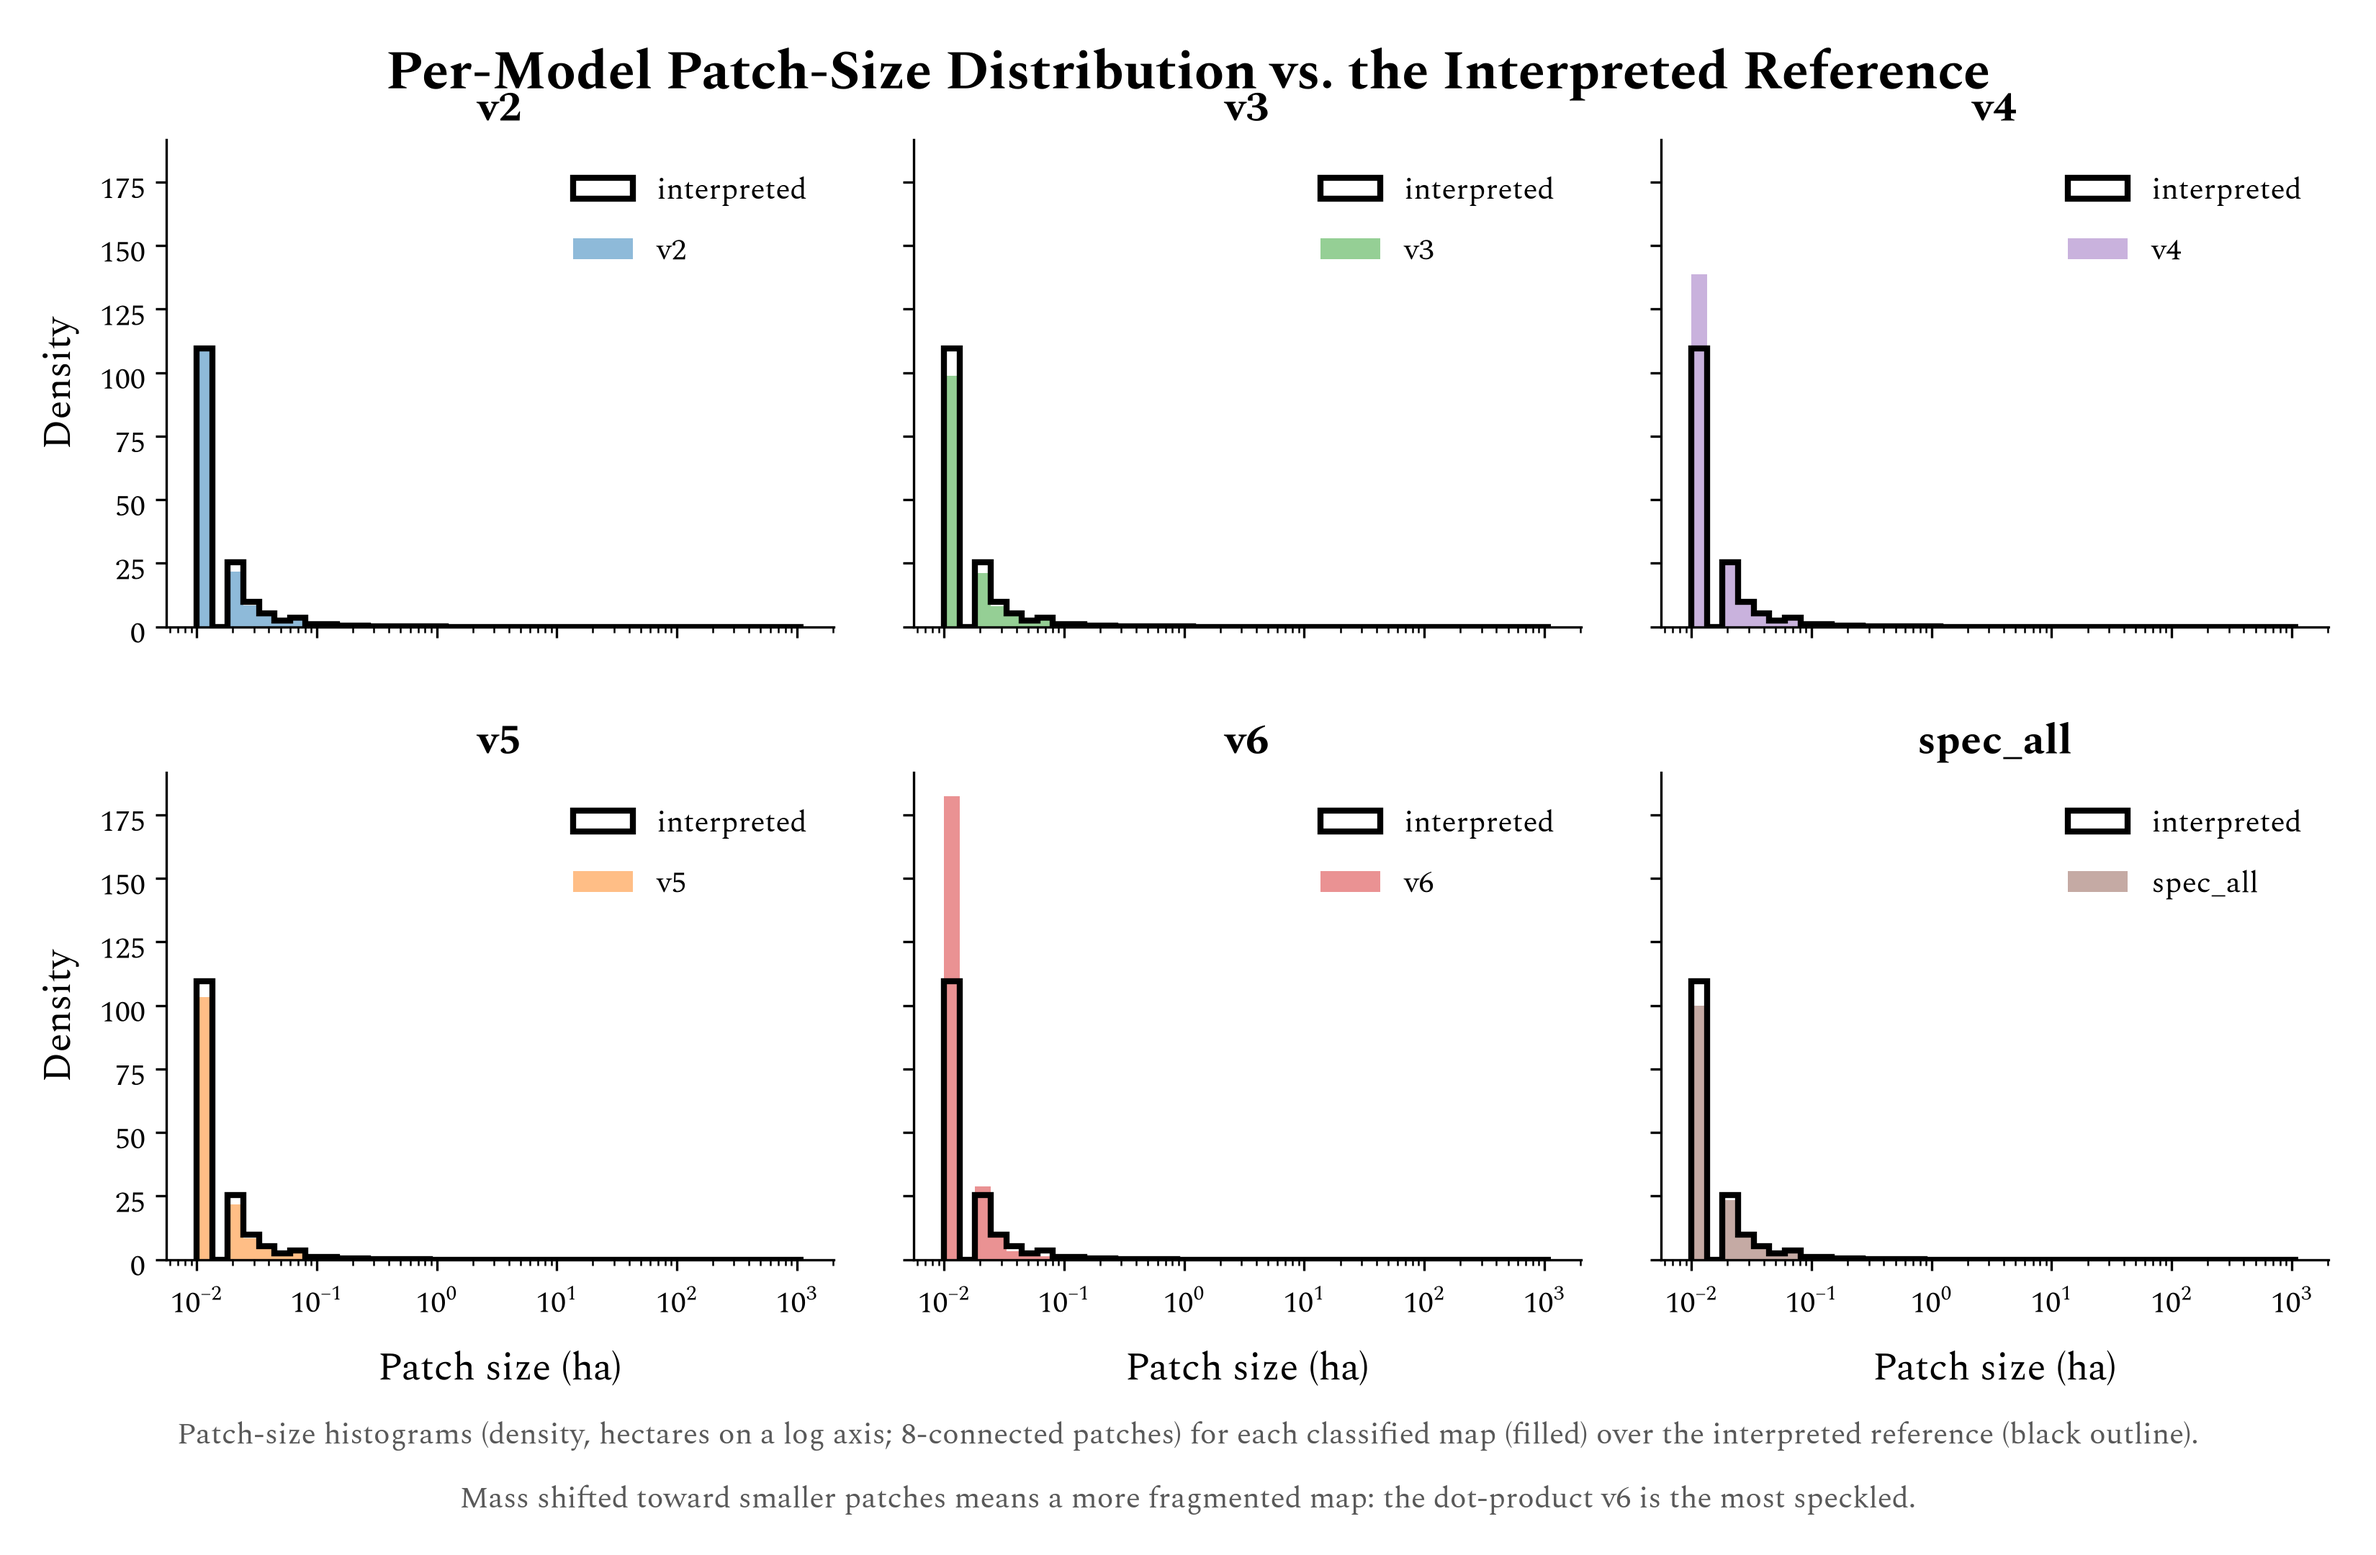
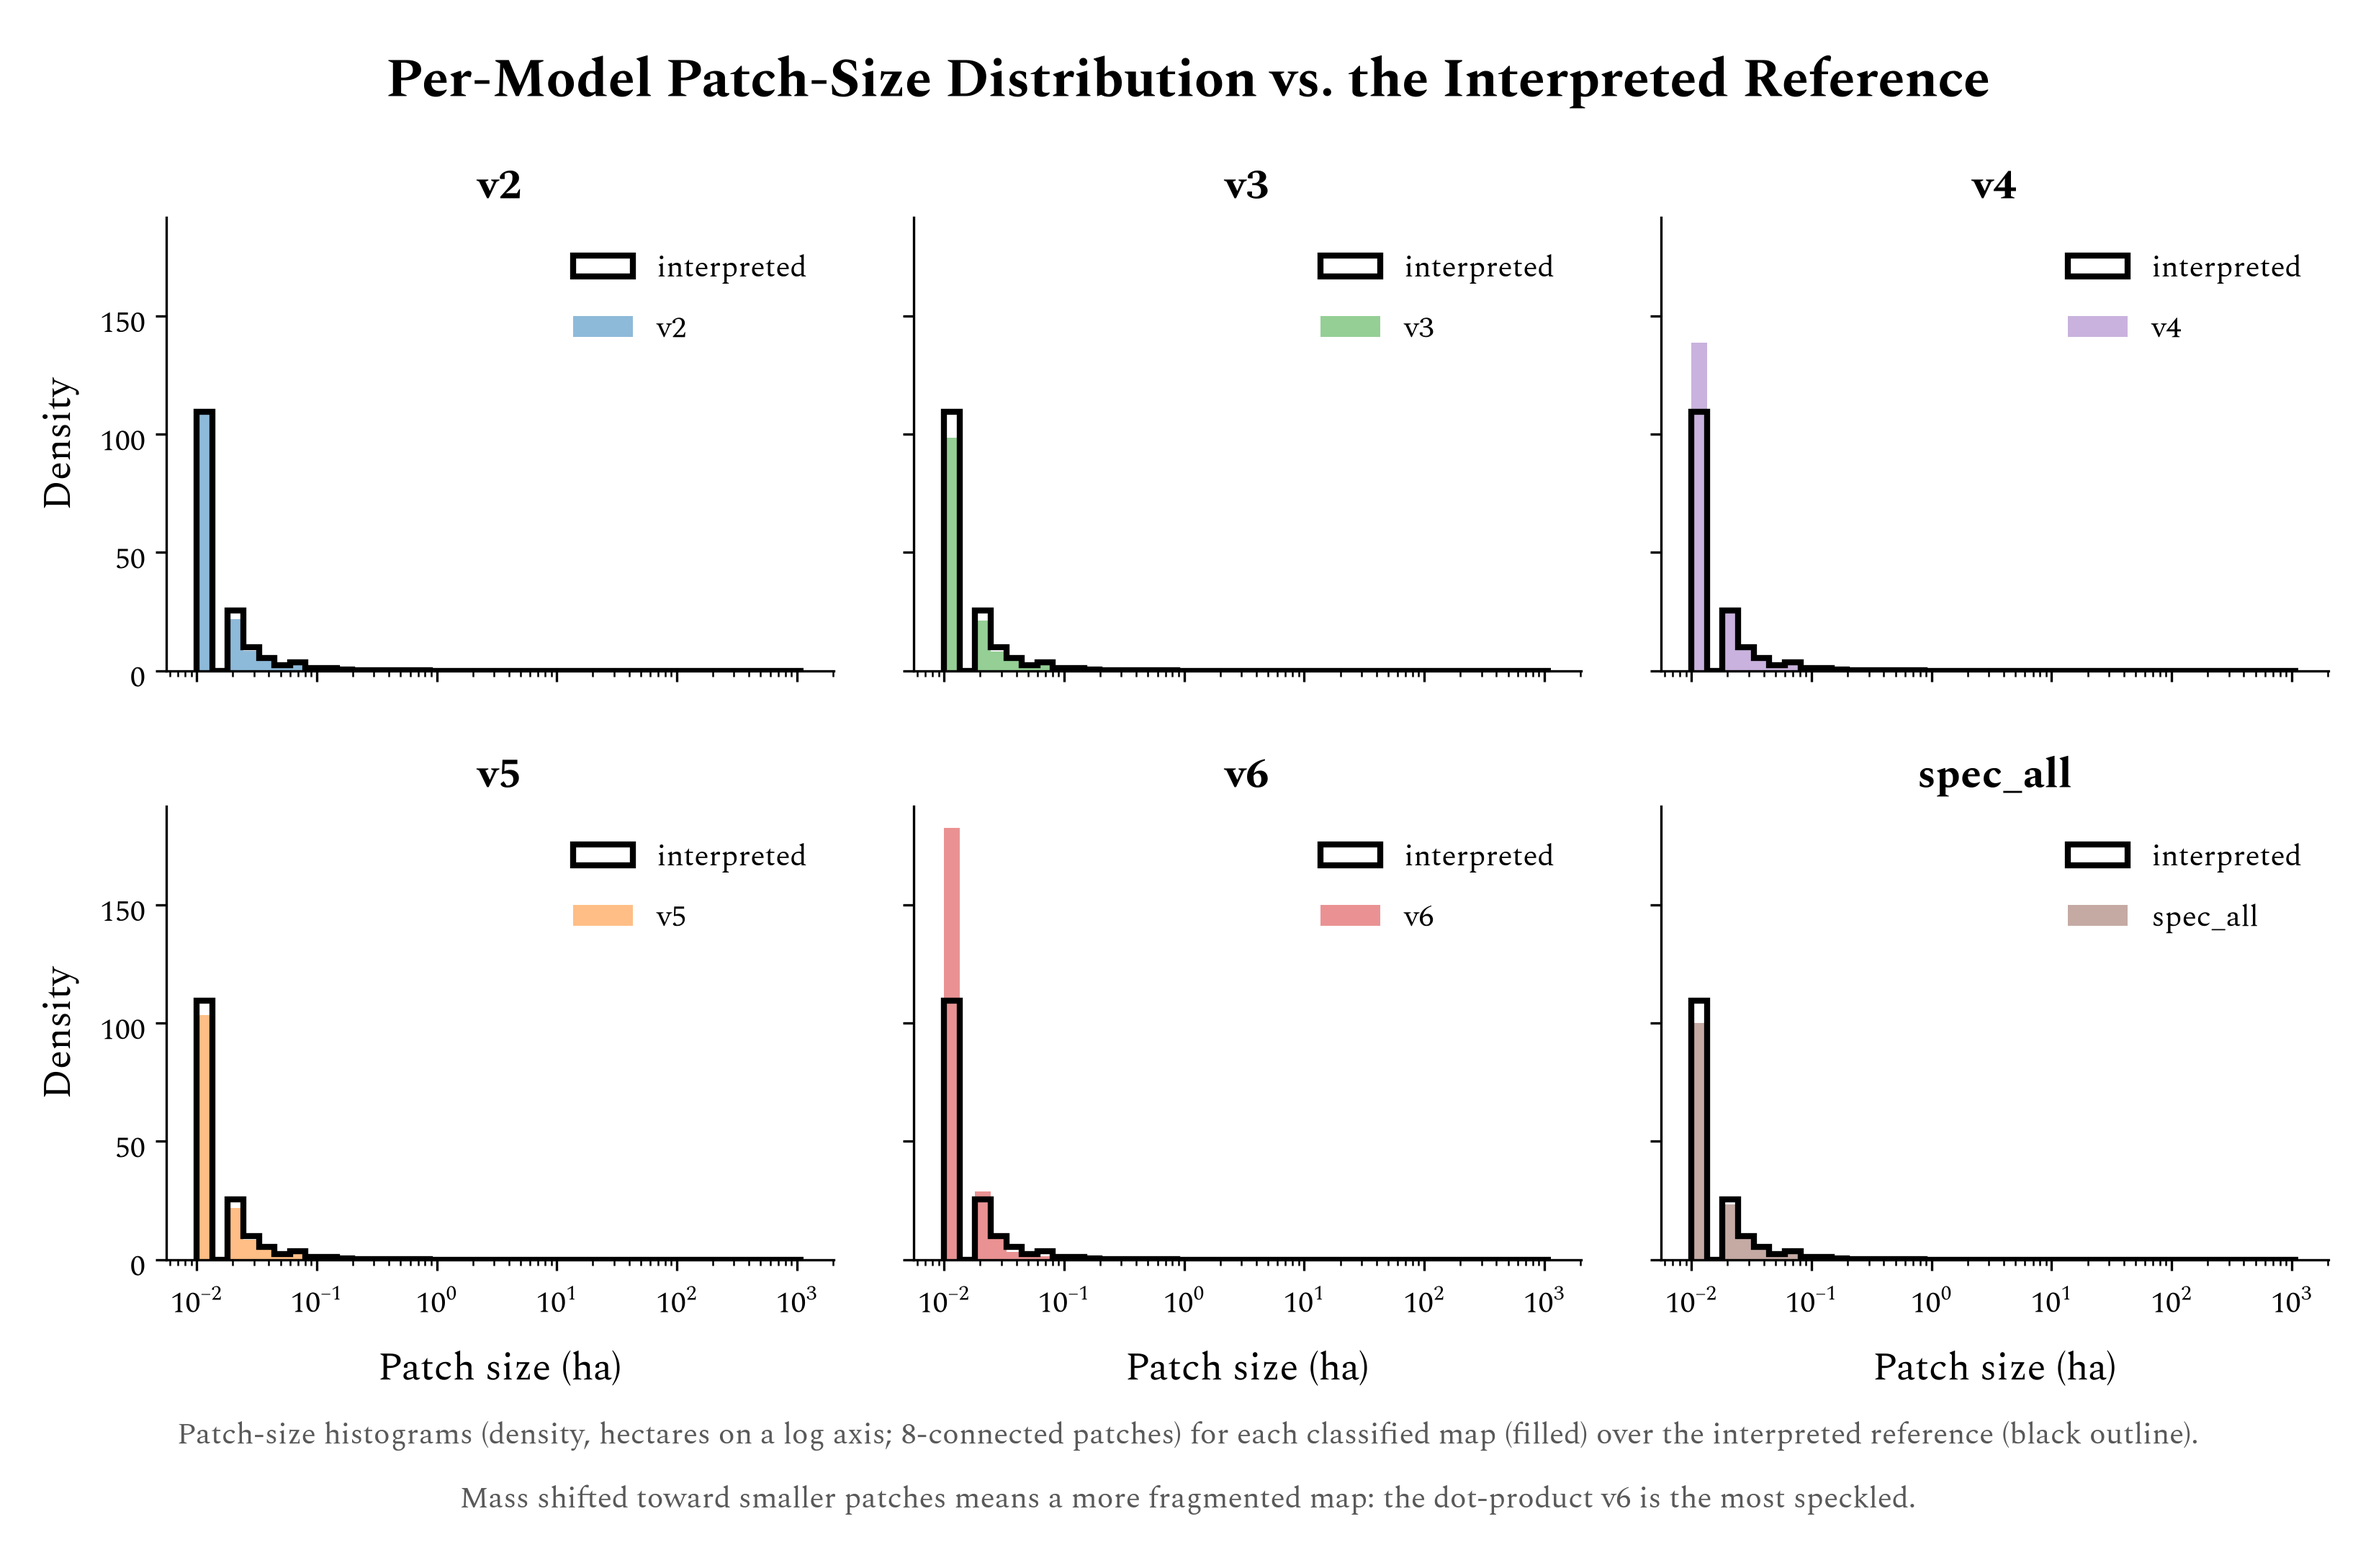
pres_21 patch-size: add gap under the title (lower top margin)

diff --git a/presentation/scripts/pres_patch_size_distribution.py b/presentation/scripts/pres_patch_size_distribution.py
@@ -115,12 +115,12 @@ def main():
         ax.set_ylabel("Density", fontsize=13)
 
     fig.suptitle("Per-Model Patch-Size Distribution vs. the Interpreted Reference", fontsize=18,
-                 fontweight="bold", y=0.98)
+                 fontweight="bold", y=0.975)
     fig.text(0.5, 0.015, "Patch-size histograms (density, hectares on a log axis; 8-connected patches) for "
              "each classified map (filled) over the interpreted reference (black outline).\nMass shifted "
              "toward smaller patches means a more fragmented map: the dot-product v6 is the most speckled.",
              ha="center", va="bottom", fontsize=10, color="0.35", linespacing=1.4)
-    fig.subplots_adjust(left=0.07, right=0.98, top=0.91, bottom=0.19, hspace=0.30, wspace=0.12)
+    fig.subplots_adjust(left=0.07, right=0.98, top=0.86, bottom=0.19, hspace=0.30, wspace=0.12)
 
     os.makedirs(os.path.dirname(OUT), exist_ok=True)
     fig.savefig(OUT, dpi=300)
